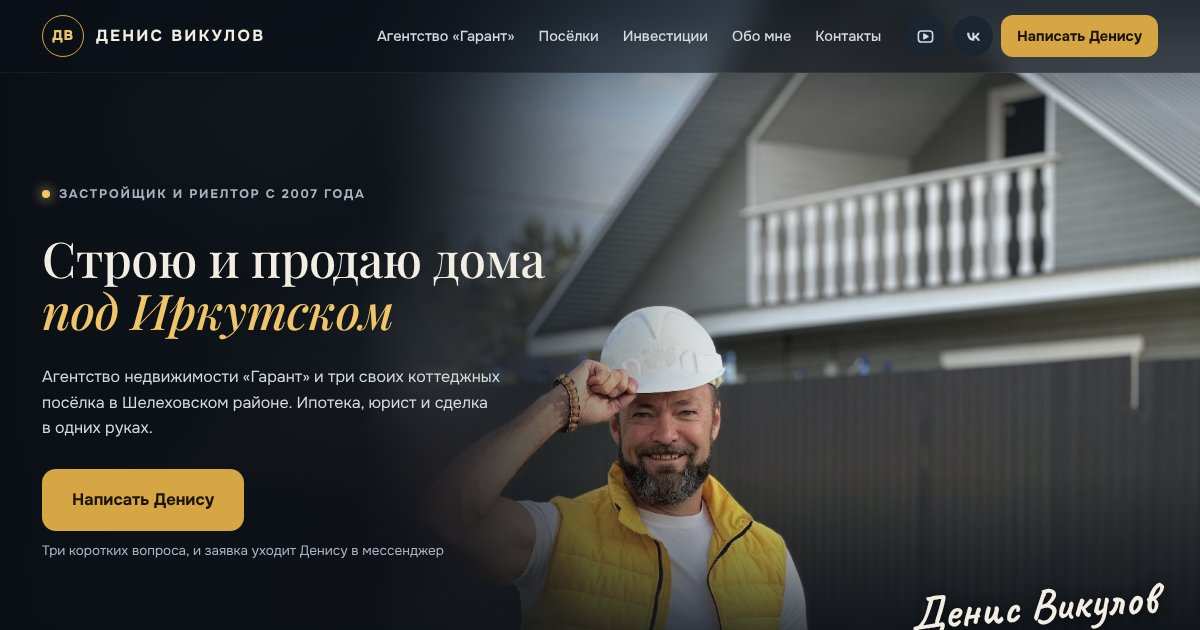
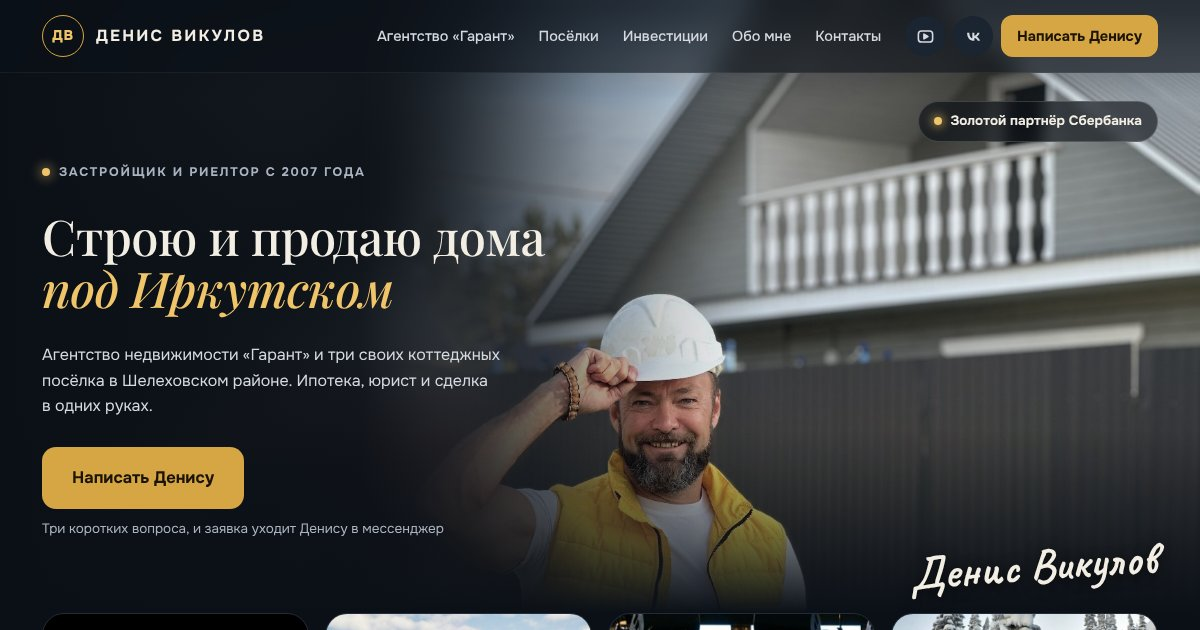
Денис Викулов: Сбербанк на фото, кнопки направлений внизу первого экрана
Claude-Session: https://claude.ai/code/session_01MqcZMF1QZGroxt2dRB4nWR

Changed region(s): [[0.0308, 0.0905, 1.0, 1.0], [0.6167, 0.1206, 0.7092, 0.2413]]

diff --git a/denis-vikulov/index.html b/denis-vikulov/index.html
@@ -66,7 +66,7 @@ nav a:hover{color:var(--gold-hi)}
 .bg-blur{inset:-40px;background:url(img/denis-kaska.jpg) 50% 30%/cover;filter:blur(34px) saturate(.9);opacity:.6}
 .bg-photo{z-index:-2;top:0;right:0;bottom:0;width:68%;background:url(img/denis-kaska.jpg) 22% 20%/cover;-webkit-mask-image:linear-gradient(90deg,transparent 0%,#000 26%);mask-image:linear-gradient(90deg,transparent 0%,#000 26%)}
 .stage::after{content:"";position:absolute;inset:0;z-index:-1;background:linear-gradient(90deg,var(--bg) 0%,rgb(11 16 23 / .92) 30%,rgb(11 16 23 / .4) 48%,transparent 64%),linear-gradient(180deg,rgb(11 16 23 / .55) 0%,transparent 16%,transparent 70%,var(--bg) 100%)}
-.hero{position:relative;display:grid;grid-template-columns:minmax(0,620px) minmax(0,1fr);min-height:clamp(600px,calc(100vh - 72px),900px);padding-block:40px;align-items:center}
+.hero{position:relative;display:grid;grid-template-columns:minmax(0,620px) minmax(0,1fr);min-height:clamp(540px,calc(100vh - 200px),760px);padding-block:40px 24px;align-items:center}
 .h-left{display:grid;gap:28px;align-content:center}
 .hero h1{font-family:var(--serif);font-weight:500;font-size:clamp(40px,4.1vw,60px);line-height:1.06;letter-spacing:-.01em;text-wrap:wrap}
 .hero h1 .scr{display:block;font-style:italic;color:var(--gold-hi)}
@@ -74,11 +74,13 @@ nav a:hover{color:var(--gold-hi)}
 .cta{display:grid;gap:10px;justify-items:start}
 .cta .btn{padding:18px 30px;font-size:16.5px}
 .cta small{font-size:13.5px;color:var(--muted)}
-.sign{position:absolute;right:0;bottom:44px;font-family:var(--script);font-size:46px;line-height:1;color:var(--ink);text-shadow:0 2px 14px rgb(0 0 0 / .7);transform:rotate(-4deg)}
+.sber{position:absolute;top:28px;right:0;z-index:3;display:inline-flex;align-items:center;gap:8px;background:rgb(11 16 23 / .62);backdrop-filter:blur(8px);border:1px solid rgb(255 255 255 / .16);border-radius:999px;padding:9px 15px;font-size:13.5px;font-weight:700;white-space:nowrap}
+.sber::before{content:"";width:8px;height:8px;border-radius:50%;background:var(--gold-hi);box-shadow:0 0 10px 2px rgb(240 197 106 / .6)}
+.sign{position:absolute;right:0;bottom:24px;font-family:var(--script);font-size:46px;line-height:1;color:var(--ink);text-shadow:0 2px 14px rgb(0 0 0 / .7);transform:rotate(-4deg)}
 
 /* сразу под первым экраном: цифры и четыре направления */
-.napr{padding-block:8px 72px}
-.stats{display:grid;grid-template-columns:repeat(5,minmax(0,1fr));border-block:1px solid var(--line);margin-bottom:28px}
+.napr{padding-block:0 72px}
+.stats{display:grid;grid-template-columns:repeat(5,minmax(0,1fr));border-block:1px solid var(--line);margin-top:28px}
 .stats a{padding:22px 20px;display:grid;gap:4px;align-content:start;text-decoration:none;transition:background .15s}
 .stats a:hover{background:var(--surface)}
 .stats i{font-style:normal;font-size:12.5px;font-weight:700;color:var(--gold);margin-top:4px}
@@ -101,6 +103,7 @@ nav a:hover{color:var(--gold-hi)}
   .stage{margin-top:-62px;padding-top:62px}
   .hero{grid-template-columns:1fr;min-height:0;padding-block:330px 36px}
   .bg-blur,.sign{display:none}
+  .sber{top:78px;right:16px;font-size:12px;padding:6px 11px}
   .bg-photo{left:0;width:auto;bottom:auto;height:470px;background-position:26% 16%;-webkit-mask-image:linear-gradient(180deg,#000 62%,transparent);mask-image:linear-gradient(180deg,#000 62%,transparent)}
   .stage::after{background:linear-gradient(180deg,rgb(11 16 23 / .35) 0,transparent 90px,transparent 220px,rgb(11 16 23 / .8) 360px,var(--bg) 460px)}
 }
@@ -223,24 +226,25 @@ dialog p{color:var(--muted);font-size:14.5px;margin-bottom:8px}
           <small>Три коротких вопроса, и&nbsp;заявка уходит Денису в&nbsp;мессенджер</small>
         </div>
       </div>
+      <span class="sber">Золотой партнёр Сбербанка</span>
       <span class="sign">Денис Викулов</span>
     </div>
   </div>
   </div>
 
   <div class="wrap napr" id="vhody">
+    <div class="dirs">
+      <a class="dir" href="#struktura"><span class="pic garant"></span><span class="txt"><b>Агентство «Гарант»</b><small>Купить, продать, ипотека, юрист</small><span class="ar">→</span></span></a>
+      <a class="dir" href="#struktura"><span class="pic" style="background-image:url(img/dom-noch.jpg)"></span><span class="txt"><b>Свои посёлки</b><small>Крылатый, Квартал Семейный, Зелёная долина</small><span class="ar">→</span></span></a>
+      <a class="dir" href="#struktura"><span class="pic" style="background-image:url(img/real-invest.jpg)"></span><span class="txt"><b>Инвестиции</b><small>Россия и&nbsp;зарубеж, сделки между городами</small><span class="ar">→</span></span></a>
+      <a class="dir" href="#struktura"><span class="pic" style="background-image:url(img/frirayd.jpg);background-position:45% 40%"></span><span class="txt"><b>Обо мне</b><small>Днём брус и&nbsp;бетон, утром сделка</small><span class="ar">→</span></span></a>
+    </div>
     <div class="stats">
       <a href="#struktura"><b>с 2007 года</b><span>в&nbsp;недвижимости</span><i>свидетельство</i></a>
       <a href="#struktura"><b>Топ-100</b><span>агентств России по&nbsp;версии Домклик</span><i>диплом</i></a>
       <a href="#struktura"><b>Сбербанк</b><span>золотой партнёр, аккредитованный застройщик</span><i>сертификат</i></a>
       <a href="#struktura"><b>4,9</b><span>на&nbsp;Яндексе, 27 оценок</span><i>отзывы</i></a>
       <a href="#struktura"><b>3 посёлка</b><span>строим сами</span><i>смотреть</i></a>
-    </div>
-    <div class="dirs">
-      <a class="dir" href="#struktura"><span class="pic garant"></span><span class="txt"><b>Агентство «Гарант»</b><small>Купить, продать, ипотека, юрист</small><span class="ar">→</span></span></a>
-      <a class="dir" href="#struktura"><span class="pic" style="background-image:url(img/dom-noch.jpg)"></span><span class="txt"><b>Свои посёлки</b><small>Крылатый, Квартал Семейный, Зелёная долина</small><span class="ar">→</span></span></a>
-      <a class="dir" href="#struktura"><span class="pic" style="background-image:url(img/real-invest.jpg)"></span><span class="txt"><b>Инвестиции</b><small>Россия и&nbsp;зарубеж, сделки между городами</small><span class="ar">→</span></span></a>
-      <a class="dir" href="#struktura"><span class="pic" style="background-image:url(img/frirayd.jpg);background-position:45% 40%"></span><span class="txt"><b>Обо мне</b><small>Днём брус и&nbsp;бетон, утром сделка</small><span class="ar">→</span></span></a>
     </div>
   </div>
 

diff --git a/denis-vikulov/struktura.html b/denis-vikulov/struktura.html
@@ -77,7 +77,7 @@ h1 em{font-style:normal;color:var(--gold-hi)}
         <div style="display:grid;gap:3px;align-content:start"><span class="ln w" style="width:92%;height:7px"></span><span class="scr" style="font-size:12.5px">живи по своим правилам</span><div style="display:grid;grid-template-columns:repeat(4,minmax(0,1fr));gap:2px;margin-top:3px"><span class="pl" style="height:16px"></span><span class="pl" style="height:16px"></span><span class="pl" style="height:16px"></span><span class="pl" style="height:16px"></span></div></div>
         <div class="ph" style="background-image:url(img/denis-kaska.jpg);background-position:30% 25%"></div>
       </div></div>
-    <div class="r"><div class="t"><span class="no">02</span><h3>Цифры и&nbsp;направления</h3><p>2007, топ-100, Сбербанк, 4,9. Нажал и&nbsp;видишь диплом. Ниже четыре кнопки с&nbsp;вашими картинками</p></div>
+    <div class="r"><div class="t"><span class="no">02</span><h3>Направления и&nbsp;цифры</h3><p>Четыре кнопки с&nbsp;вашими картинками внизу экрана. Под ними 2007, Топ-100, Сбербанк, 4,9: нажал и&nbsp;видишь документ</p></div>
       <div class="v" style="grid-template-columns:repeat(2,minmax(0,1fr));gap:7px 8px;align-content:center">
         <div class="st"><b>2007</b><i></i></div><div class="st"><b>4,9</b><i></i></div><div class="st"><b>Сбер</b><i></i></div><div class="st"><b>Топ-100</b><i></i></div>
       </div></div>
